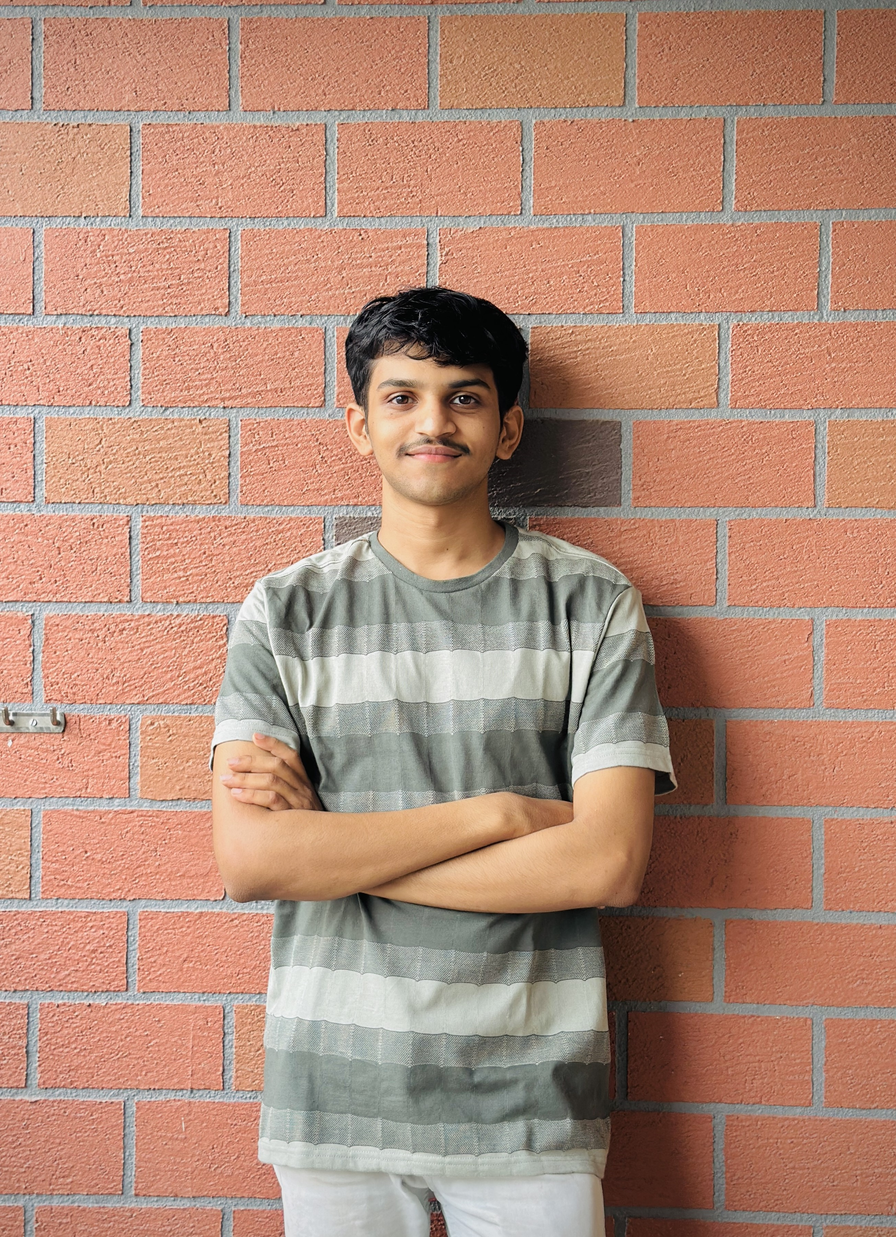
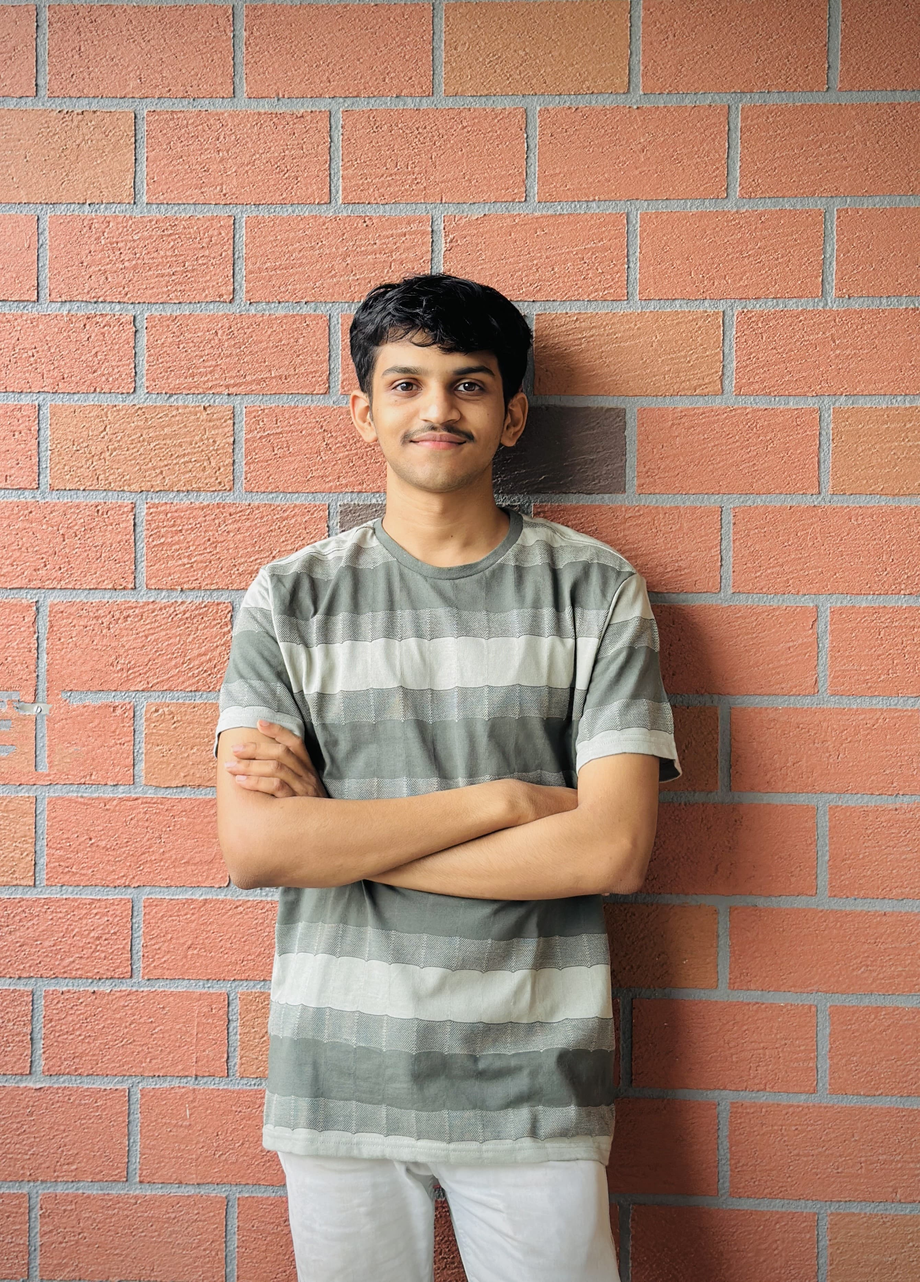
Profile prciute and projects updated

diff --git a/src/constants/index.js b/src/constants/index.js
@@ -4,7 +4,8 @@ import project3 from "../assets/projects/project-3.jpg";
 import project4 from "../assets/projects/project-4.jpg";
 import project5 from "../assets/projects/Pokedex.png";
 import project6 from "../assets/projects/WanderLust.png";
-export const HERO_CONTENT = `I am a passionate full stack developer with a knack for crafting robust and scalable web applications.  I have honed my skills in front-end technologies like React and Next.js, as well as back-end technologies like Node.js, MySQL, and MongoDB. My goal is to leverage my expertise to create innovative solutions that drive business growth and deliver exceptional user experiences.`;
+import movieRsys from "../assets/projects/MovieRSystem.png";
+export const HERO_CONTENT = `I am a passionate data science student with a strong foundation in statistical analysis, machine learning, and data visualization. Proficient in Python and SQL, I have worked with libraries like Pandas, NumPy, Scikit-Learn, and TensorFlow to extract insights and build predictive models. My goal is to leverage data-driven approaches to solve complex problems, optimize decision-making, and create impactful solutions that drive business growth and innovation.`;
 
 export const ABOUT_TEXT = `Currently, I am pursuing a B.Tech in Computer Engineering from Pimpri Chinchwad College of Engineering. I am a dedicated and passionate student with a strong interest in software development, artificial intelligence, web development, and data science. My academic journey has equipped me with a solid foundation in programming languages and algorithms. I thrive in collaborative environments and am constantly seeking opportunities to apply my skills in real-world projects. With a commitment to continuous learning and innovation, I aim to contribute to cutting-edge technological advancements and drive impactful solutions in the tech industry.`;
 
@@ -59,6 +60,19 @@ export const EDUCATION = [
   },
 ];
 export const PROJECTS = [
+  {
+    title: "Movie Recommendation System",
+    image: movieRsys,
+    description:
+      "Your MoviesRSystem web app is a Movie Recommendation System built using Streamlit, which suggests movies based on user preferences. It leverages content-based filtering to provide personalized recommendations. The backend is powered by Python, utilizing pandas for data handling and scikit-learn for similarity calculations. The app is deployed on Streamlit Cloud and hosted on GitHub for version control.",
+    technologies: [
+      "Python (pandas, scikit-learn)",
+      "Streamlit (for UI & deployment)",
+      "Machine Learning (content-based filtering)",
+      "GitHub (version control & hosting)",
+    ],
+    link: "https://moviesrsystem-2cajrqitm5n9b7sdpvwxzd.streamlit.app/",
+  },
   {
     title: "WanderLust",
     image: project6,
@@ -118,5 +132,5 @@ export const PROJECTS = [
 export const CONTACT = {
   address: "Pimpri Chinchwad",
   phoneNo: "+12 4555 666 00 ",
-  email: "sanwad8cloud@gmail.com",
+  email: "sanwadrashinkar8888@gmail.com",
 };

diff --git a/src/components/Hero.jsx b/src/components/Hero.jsx
@@ -29,7 +29,7 @@ const Hero = () => {
             animate="visible"
             className="bg-gradient-to-r from-pink-300 via-slate-500 to-purple-500 bg-clip-text text-2xl sm:text-3xl md:text-3xl tracking-tight text-transparent"
           >
-            Full Stack Web Developer
+            Computer Engineer
           </motion.span>
           <motion.p
             variants={container(1)}
